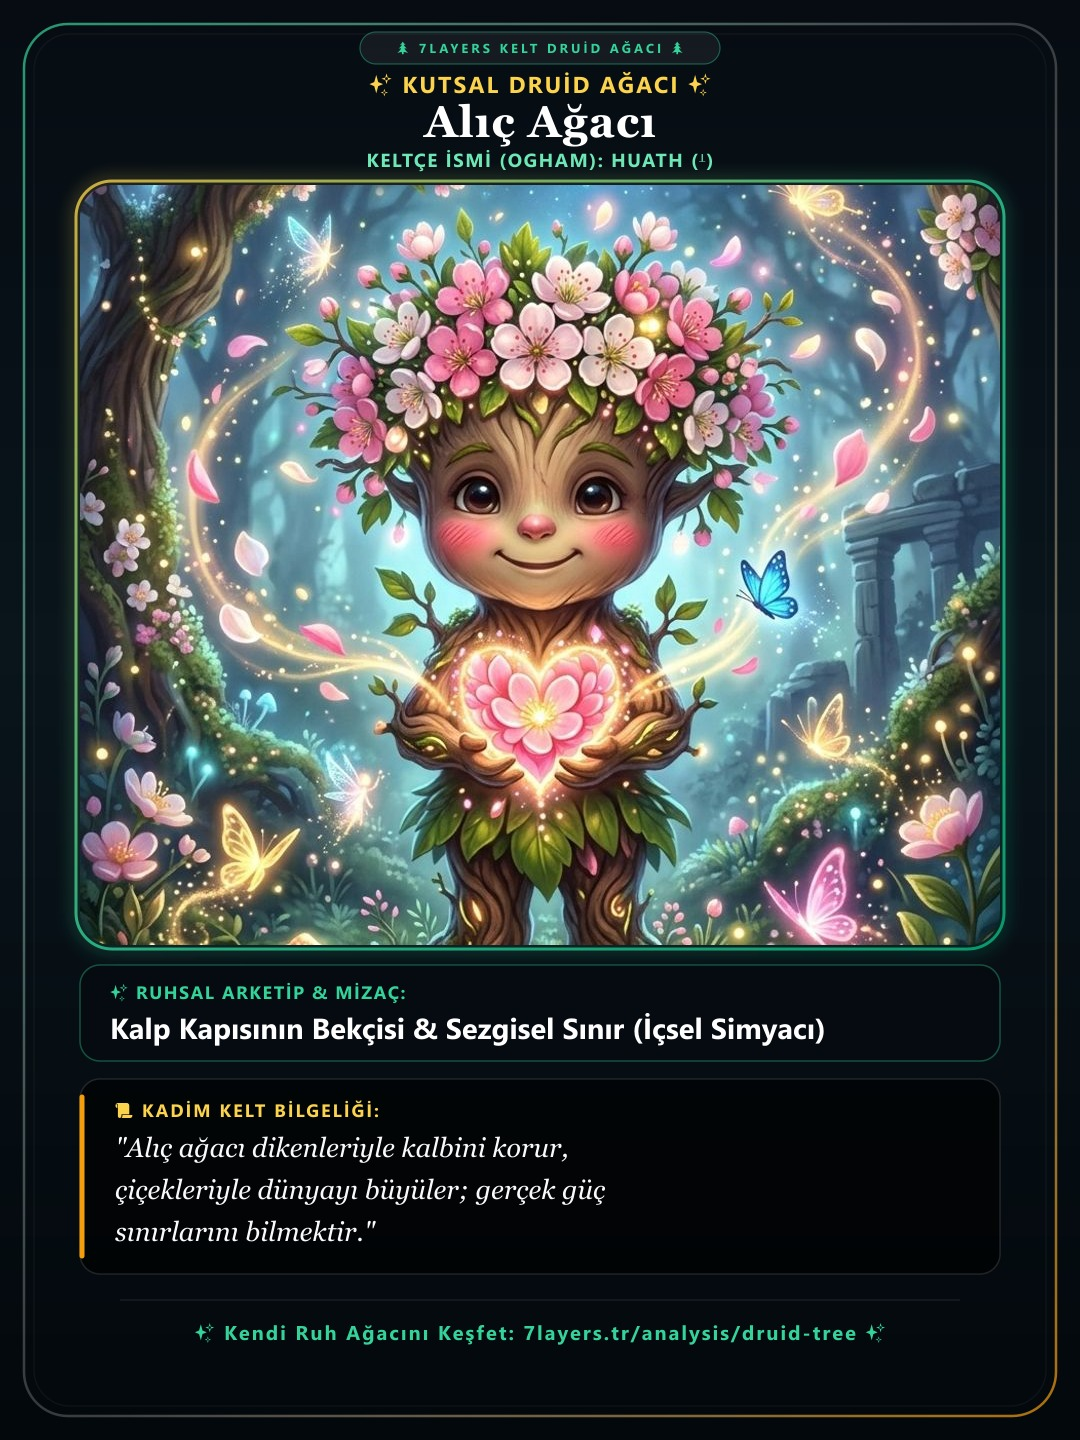
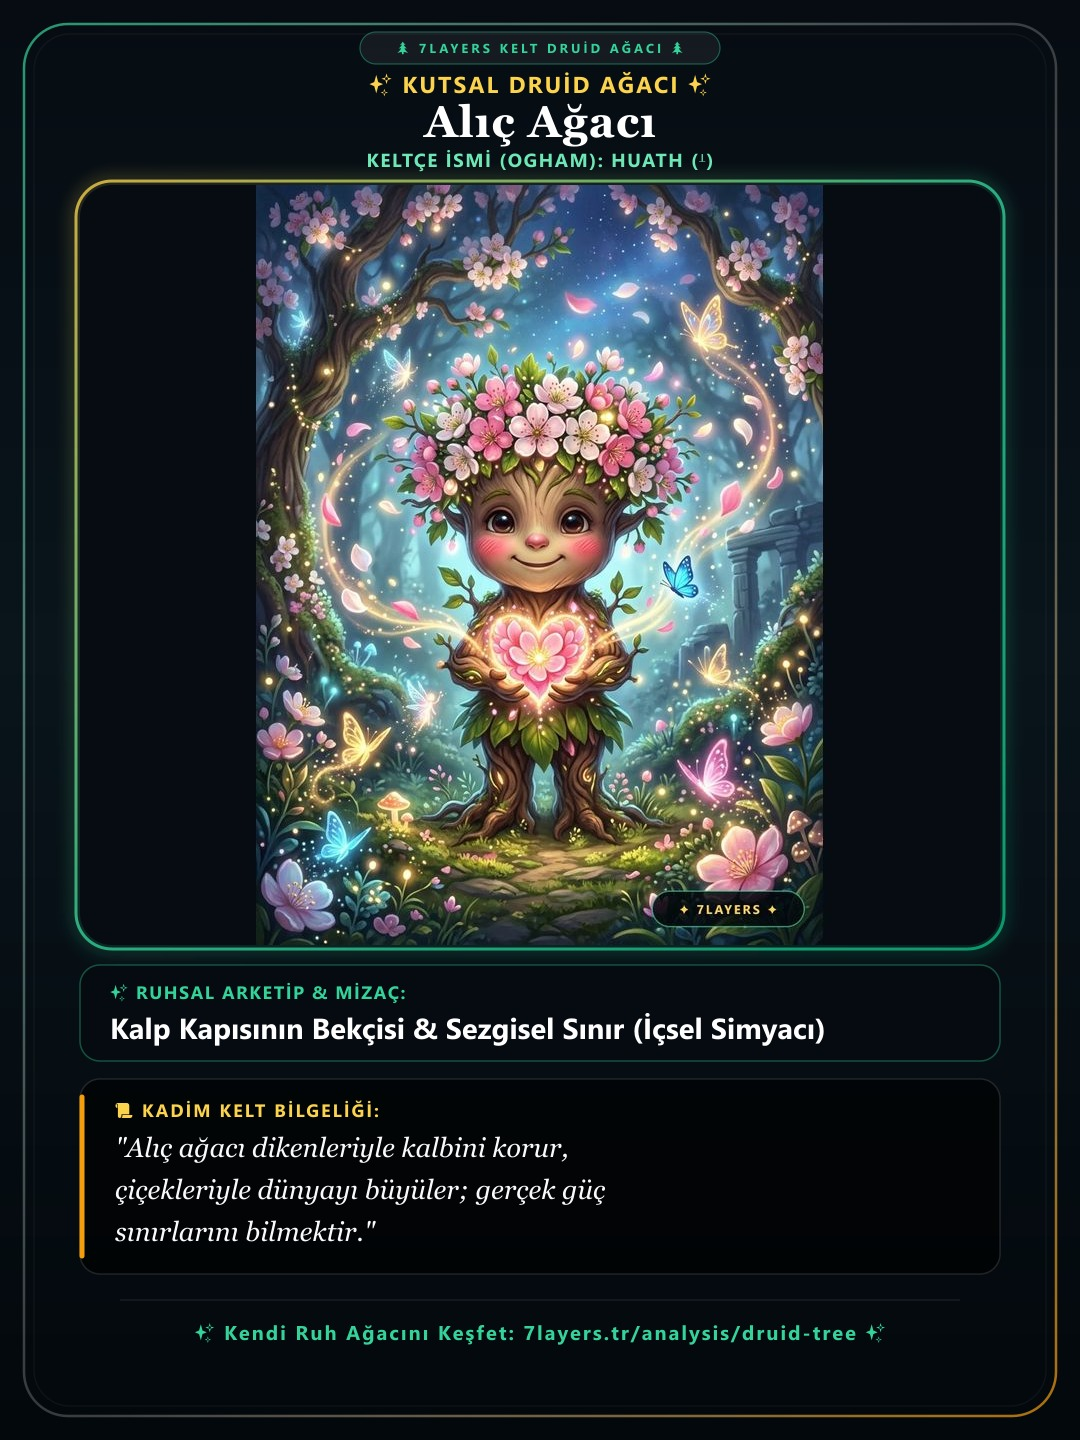
feat(druid-tree): preserve 100% full original vertical art in cards with seamless dark flanks

diff --git a/src/features/astrology/server/druidTreeCardService.ts b/src/features/astrology/server/druidTreeCardService.ts
@@ -76,9 +76,13 @@ export function formatTurkishPossessive(name: string): string {
 export async function renderDruidTreeCard(tree: DruidTree, rawImagePath: string, personName?: string): Promise<Buffer> {
   const rawBuffer = await fs.promises.readFile(rawImagePath);
 
-  // Resize inner art to 920x760 with center positioning so characters are framed
+  // Preserve 100% of the original vertical portrait character using fit: contain
+  // Dark flanks seamlessly match the card's deep celestial background
   const resizedInnerImg = await sharp(rawBuffer)
-    .resize(INNER_IMG_WIDTH, INNER_IMG_HEIGHT, { fit: 'cover', position: 'center' })
+    .resize(INNER_IMG_WIDTH, INNER_IMG_HEIGHT, { 
+      fit: 'contain', 
+      background: { r: 6, g: 12, b: 18, alpha: 1 } 
+    })
     .toBuffer();
 
   // Create rounded mask for inner image
